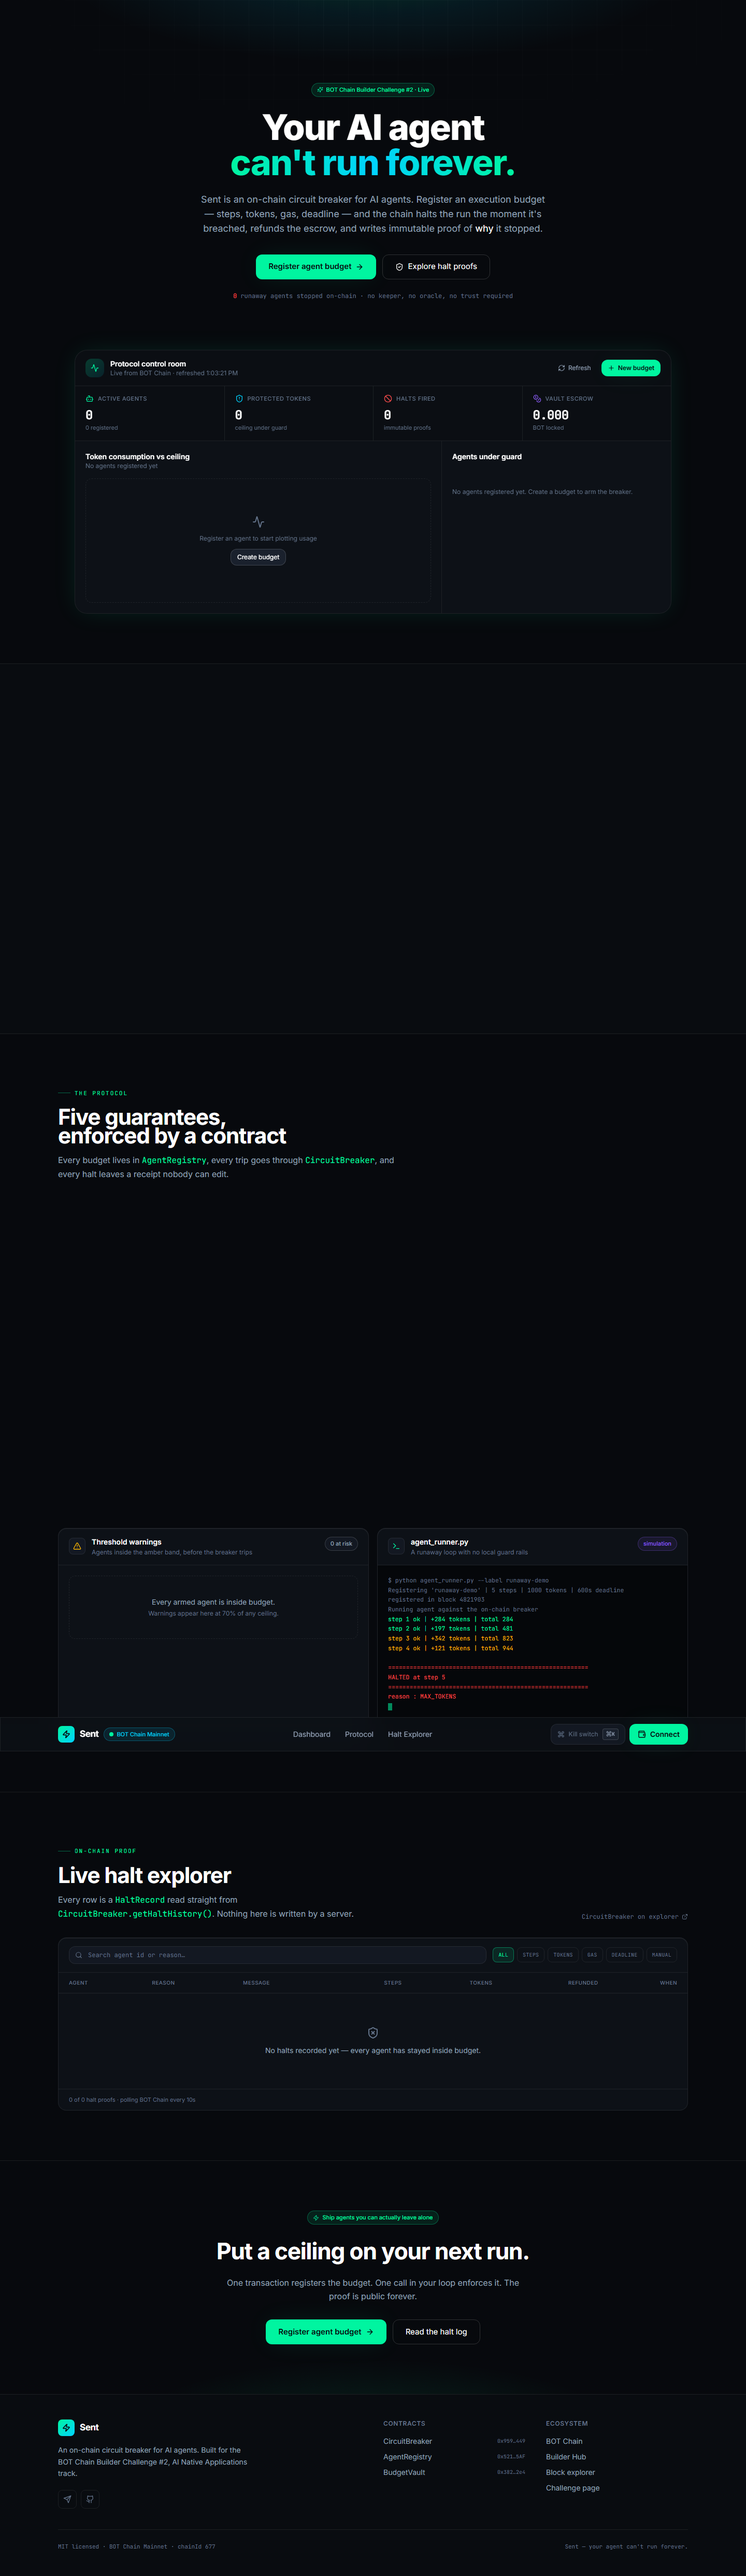
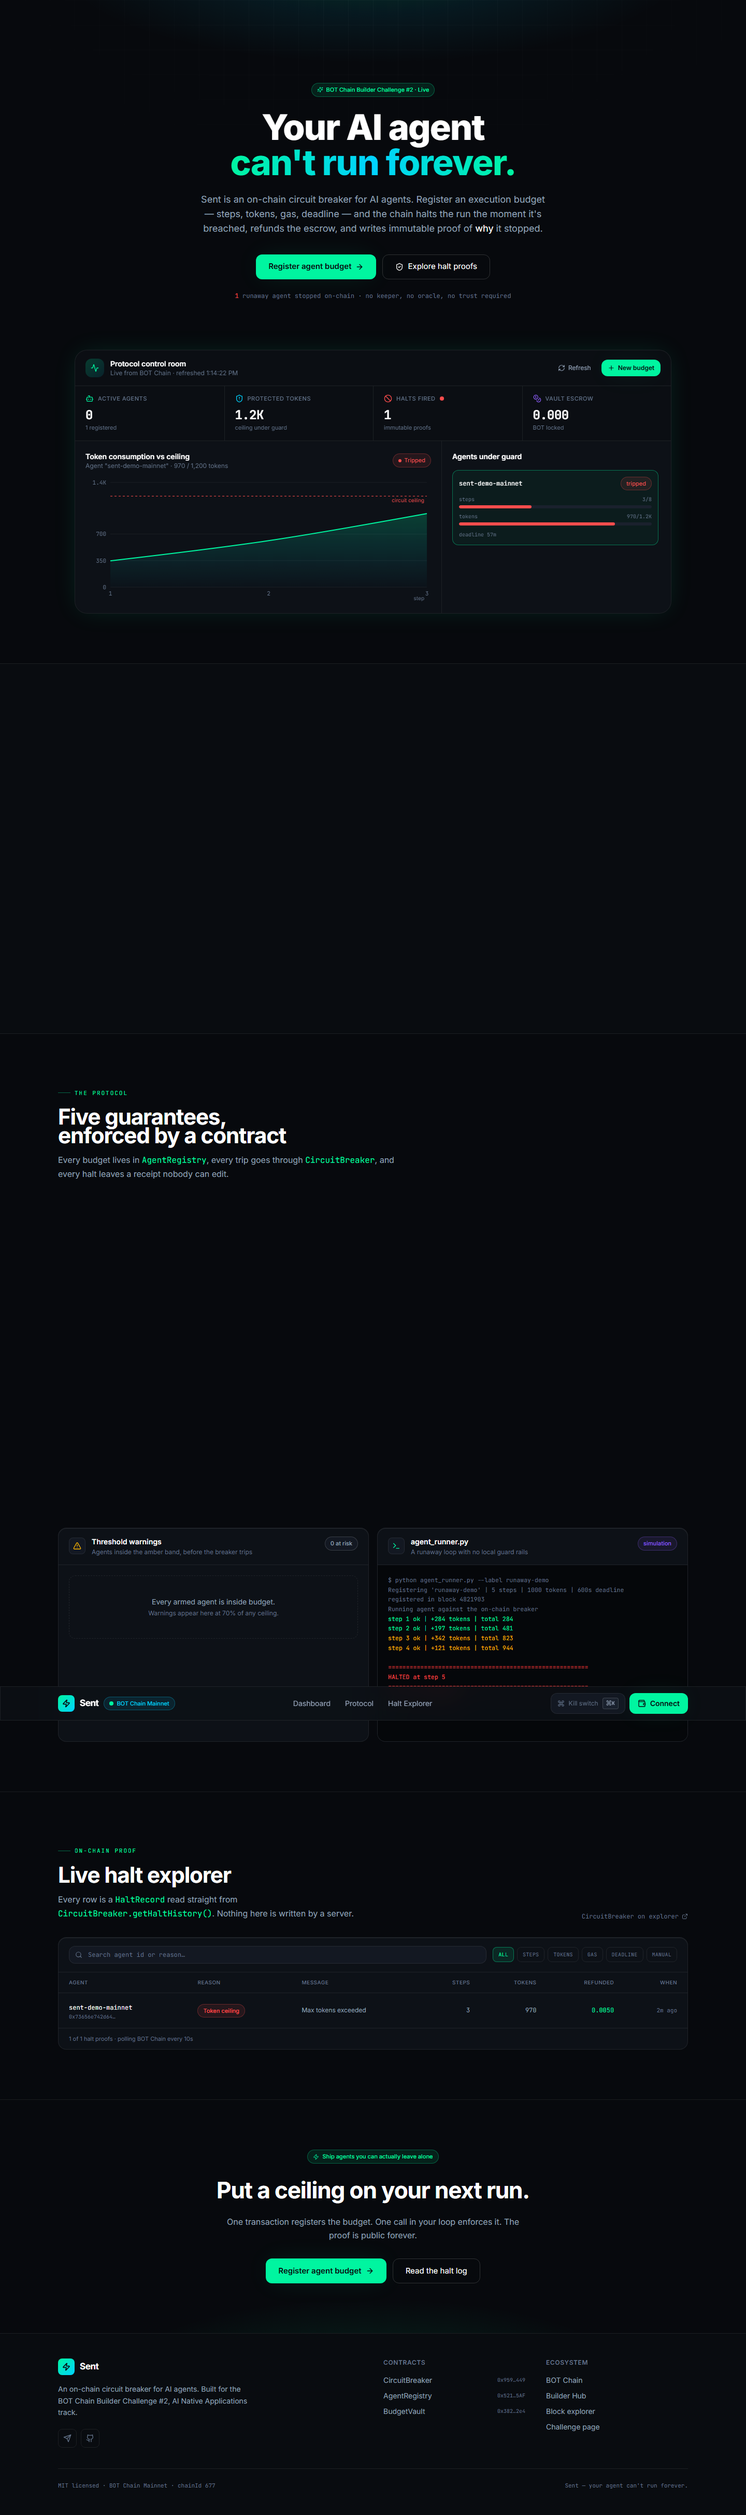
First halt proof on BOT Chain Mainnet
Ran sent-demo-mainnet against the live breaker with 0.005 BOT escrowed. It
burned past its token ceiling and the chain stopped it at step 4:

  reason   MAX_TOKENS — Max tokens exceeded
  steps    3 completed, 970 / 1200 tokens
  refunded 0.005 BOT, returned automatically
  proof    0x0780be83a2b714b46bb238b295b2630a1720833e1d85a5e900736c58a60b0afa
  block    21592631

Verified by reading mainnet independently of the runner: agent deactivated,
halted flag set, and the escrow credited back to the owner's vault balance.

Adds --escrow to the runner. registerAgent is payable and releases the escrow
on halt, but the runner had no way to attach value, so every demo halt showed
a 0.0 refund and never exercised the auto-refund the project is built around.

Reworks the UI verifier to check the page against on-chain counts rather than
thresholds tuned for the 10-halt testnet seed, which failed on a mainnet
holding one real proof. It now reads agentCount() and haltCount() directly and
asserts the explorer's row count equals the chain's halt count, so the same
checks hold on an empty, seeded, or single-proof network. 15/15 on mainnet.

diff --git a/agent-runner/agent_runner.py b/agent-runner/agent_runner.py
@@ -87,17 +87,18 @@ class Runner:
 
     # ------------------------------------------------------------------ chain
 
-    def send(self, fn) -> dict:
+    def send(self, fn, value: int = 0) -> dict:
         """Build, sign and mine one transaction."""
-        tx = fn.build_transaction(
-            {
-                "from": self.account.address,
-                "nonce": self.w3.eth.get_transaction_count(self.account.address),
-                "gas": 400_000,
-                "gasPrice": self.w3.eth.gas_price,
-                "chainId": self.chain_id,
-            }
-        )
+        params = {
+            "from": self.account.address,
+            "nonce": self.w3.eth.get_transaction_count(self.account.address),
+            "gas": 400_000,
+            "gasPrice": self.w3.eth.gas_price,
+            "chainId": self.chain_id,
+        }
+        if value:
+            params["value"] = value
+        tx = fn.build_transaction(params)
         signed = self.account.sign_transaction(tx)
         raw = getattr(signed, "raw_transaction", None) or signed.rawTransaction
         tx_hash = self.w3.eth.send_raw_transaction(raw)
@@ -114,6 +115,9 @@ class Runner:
             f"Registering '{self.label}' | {args.max_steps} steps "
             f"| {args.max_tokens} tokens | {args.duration}s deadline"
         )
+        escrow_wei = self.w3.to_wei(str(args.escrow), "ether") if args.escrow else 0
+        if escrow_wei:
+            print(f"  escrowing {args.escrow} BOT - refunded to the vault on halt")
         receipt = self.send(
             self.registry.functions.registerAgent(
                 self.agent_id,
@@ -121,7 +125,8 @@ class Runner:
                 args.max_tokens,
                 args.max_gas,
                 args.duration,
-            )
+            ),
+            value=escrow_wei,
         )
         print(f"  registered in block {receipt['blockNumber']}\n")
 
@@ -190,6 +195,11 @@ def parse_args() -> argparse.Namespace:
     p.add_argument("--duration", type=int, default=600, help="budget: seconds")
     p.add_argument("--min-tokens", type=int, default=100)
     p.add_argument("--max-tokens-per-step", type=int, default=500)
+    p.add_argument(
+        "--escrow",
+        default="0",
+        help="BOT to escrow against the agent; refunded automatically on halt",
+    )
     p.add_argument("--skip-register", action="store_true")
     return p.parse_args()
 

diff --git a/README.md b/README.md
@@ -164,6 +164,24 @@ Mainnet and testnet share these addresses: the same deployer created all three
 at nonces 0-2 on both chains, and a CREATE address derives only from the
 deployer and nonce. Always check the chainId alongside the address.
 
+**Live halt proof on mainnet** — `sent-demo-mainnet` ran past its token ceiling
+and the chain stopped it:
+
+| Field | Value |
+|---|---|
+| Reason | `MAX_TOKENS` — Max tokens exceeded |
+| Halted at | step 4 (3 steps completed, 970 / 1200 tokens) |
+| Refunded | 0.005 BOT, returned automatically |
[1 lines of base64/hex data omitted]
+| Block | 21592631 |
+
+Reproduce it with `--escrow` to see the refund path end to end:
+
+```bash
+cd agent-runner
+python agent_runner.py --label my-agent --network botchain   --rpc https://rpc.botchain.ai --chain-id 677   --escrow 0.005 --max-steps 8 --max-tokens 1200
+```
+
 Deployment cost 3,371,141 gas (0.0674 BOT at 20 gwei). Verified on-chain after
 deploy: bytecode present at all three addresses, all three permission flags
 set, and every cross-contract reference matching.
